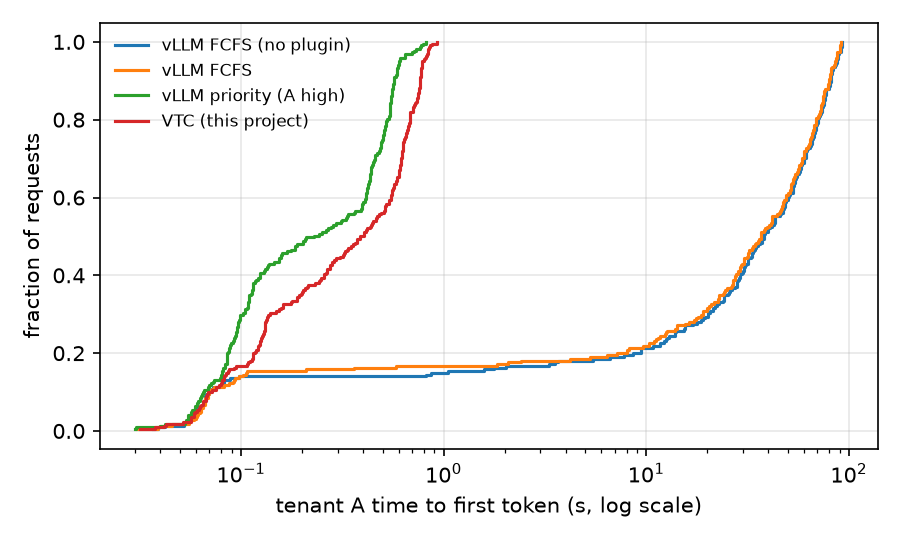
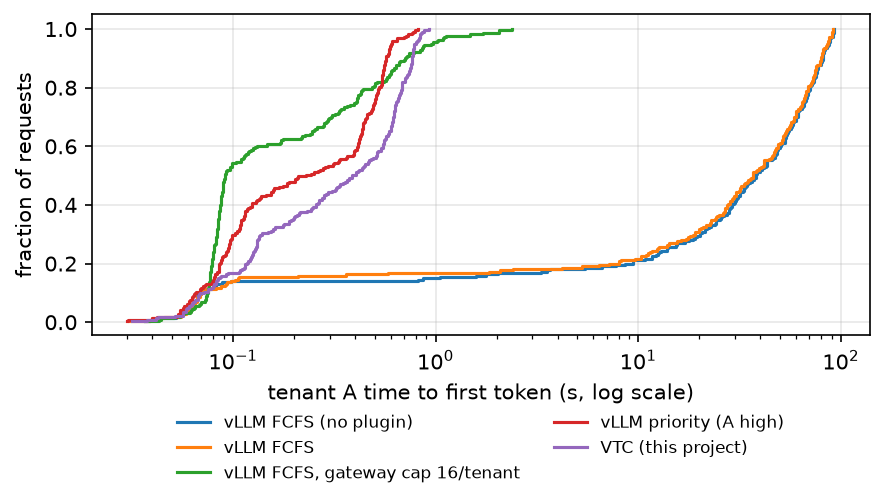
Compare a gateway concurrency cap on the noisy-neighbour workload
Three seeds of FCFS with each tenant capped at 16 requests in flight. The cap beats VTC on the interactive tenant's median TTFT and has no preemptions, but its p99 is higher and the heavy tenant's burst finishes 28-30 s later.

diff --git a/README.md b/README.md
@@ -102,9 +102,14 @@ why enforcing fairness below the size of one request destroys work.
 - Arms:
   - **FCFS:** vLLM's scheduler with the plugin in passthrough mode, so
     accounting and logging match the VTC arm;
+  - **FCFS + gateway cap** (noisy neighbour only): FCFS as above, with the
+    gateway admitting at most 16 requests per tenant to the engine and
+    queueing the rest (its `max_inflight`). 16 of B's requests hold about 37k
+    tokens, under half of the KV cache. Only this one cap value was run;
   - **priority:** vLLM's native priority policy, with the gateway marking one
     tenant high;
-  - **VTC.**
+  - **VTC;**
+  - **no plugin** (overhead runs only): vLLM's FCFS without the plugin.
 - "Share" is each tenant's fraction of billed service over the steps in
   which both tenants had work waiting.
 - Per-run data is in `results/*/summary.json`
@@ -119,19 +124,32 @@ why enforcing fairness below the size of one request destroys work.
   tokens. The client cancels a random 20% of them after their second output
   chunk.
 
-| | FCFS | Priority (A high) | VTC |
-|---|---|---|---|
-| A TTFT median | 32.4 – 40.5 s | 0.23 – 0.30 s | 0.39 – 0.50 s |
-| A TTFT p99 | 90.9 – 92.0 s | 0.78 s | 0.86 – 1.43 s |
-| B TTFT median | 45.7 – 46.3 s | 48.8 – 50.2 s | 49.1 – 50.2 s |
-| B's burst finishes | 112 – 115 s | 114 – 116 s | 114 – 118 s |
-| A requests preempted under KV pressure | 0 – 1 | 0 | 11 – 20 |
+| | FCFS | FCFS + gateway cap | Priority (A high) | VTC |
+|---|---|---|---|---|
+| A TTFT median | 32.4 – 40.5 s | 0.09 – 0.10 s | 0.23 – 0.30 s | 0.39 – 0.50 s |
+| A TTFT p99 | 90.9 – 92.0 s | 2.05 – 2.94 s | 0.78 s | 0.86 – 1.43 s |
+| B TTFT median | 45.7 – 46.3 s | 63.9 – 65.1 s | 48.8 – 50.2 s | 49.1 – 50.2 s |
+| B's burst finishes | 112 – 115 s | 142 – 147 s | 114 – 116 s | 114 – 118 s |
+| A requests preempted under KV pressure | 0 – 1 | 0 | 0 | 11 – 20 |
+
+![Tenant A TTFT CDF, noisy neighbour, seed 1](results/noisy_neighbor/ttft_A.png)
 
 Under FCFS, A gets almost no service from t = 10 s until B's backlog drains
 near t = 100 s. Under VTC, A is served at its demand throughout. B pays with
 about 4 s more median TTFT, and its burst finishes 2–3 s later:
 
 ![Billed service per tenant over time](results/noisy_neighbor/service.png)
+
+**A concurrency cap at the gateway** is the obvious alternative to a
+scheduler. With each tenant limited to 16 requests in the engine (run later
+than the other arms, on the same traces), it beats VTC on two counts: A's
+median TTFT is 0.09–0.10 s, and nothing is preempted. It loses on the
+others. A's p99 is 2.05–2.94 s against VTC's 0.86–1.43 s. With at most 16 of
+B's requests running, B's median TTFT rises to 63.9–65.1 s and its burst
+finishes at 142–147 s, 28–30 s later than under VTC with the same seed, so
+the same work takes longer (625–661 output tokens/s over the run, against
+731–802 for the other arms). The cap is also a number that has to suit the
+workload and the KV cache; only one value was tried here.
 
 The preemption row is VTC's cost. Each time A's queue empties and a new
 request arrives, the lift puts A level with B's counter. For a moment A can

diff --git a/docs/design-tradeoffs.md b/docs/design-tradeoffs.md
@@ -13,15 +13,19 @@ on one RTX 4090, vLLM 0.31.0); ranges are over seeds.
 received, and admission serves the backlogged tenant with the smallest one
 (VTC, Sheng et al., OSDI 2024).
 
-**Alternatives.** vLLM's FCFS; vLLM's static priorities; rate limits or
-quotas at the gateway.
+**Alternatives.** vLLM's FCFS; vLLM's static priorities; rate limits,
+quotas or concurrency caps at the gateway.
 
 **Why.** FCFS serves a tenant in proportion to what it sends: with three
 times the demand, the aggressive tenant took 75% of the GPU, and a 300-request
 burst pushed the interactive tenant's median time to first token to
 32.4–40.5 s. Static priority needs to know who is interactive and is all or
 nothing between peers (1.00 : 0.00). Rate limits leave the GPU idle when the
-other tenant has nothing to send. VTC split the aggressive workload 0.50 :
+other tenant has nothing to send. A per-tenant concurrency cap at the gateway
+(16 in flight, one value tried, on the noisy-neighbour workload) kept the
+interactive tenant's median TTFT at 0.09–0.10 s with no preemptions, better
+than VTC, but its p99 was 2.05–2.94 s, and capping the heavy tenant's
+concurrency delayed the end of its burst from 114–118 s to 142–147 s. VTC split the aggressive workload 0.50 :
 0.50, gave 2 : 1 weights 0.67 : 0.33, kept the interactive tenant's median
 TTFT at 0.39–0.50 s through the burst, and gave the remaining tenant
 everything once the other ran out of work.

diff --git a/results/README.md b/results/README.md
@@ -9,6 +9,9 @@
   seeds each, interleaved by seed in one session
   (`python3 -m bench.run aggressive native fcfs vtc --name overhead ...`).
   These runs are separate from `aggressive/summary.json`.
+- `noisy_neighbor/summary.json` also holds the `fcfs-cap` arm (FCFS with the
+  gateway capping each tenant at 16 requests in flight), run in the same
+  later session as `overhead/`.
 - `hook_overhead.jsonl`: the CPU microbenchmark from `bench/hook_overhead.py`
   (a single run). It records no source revision.
 
